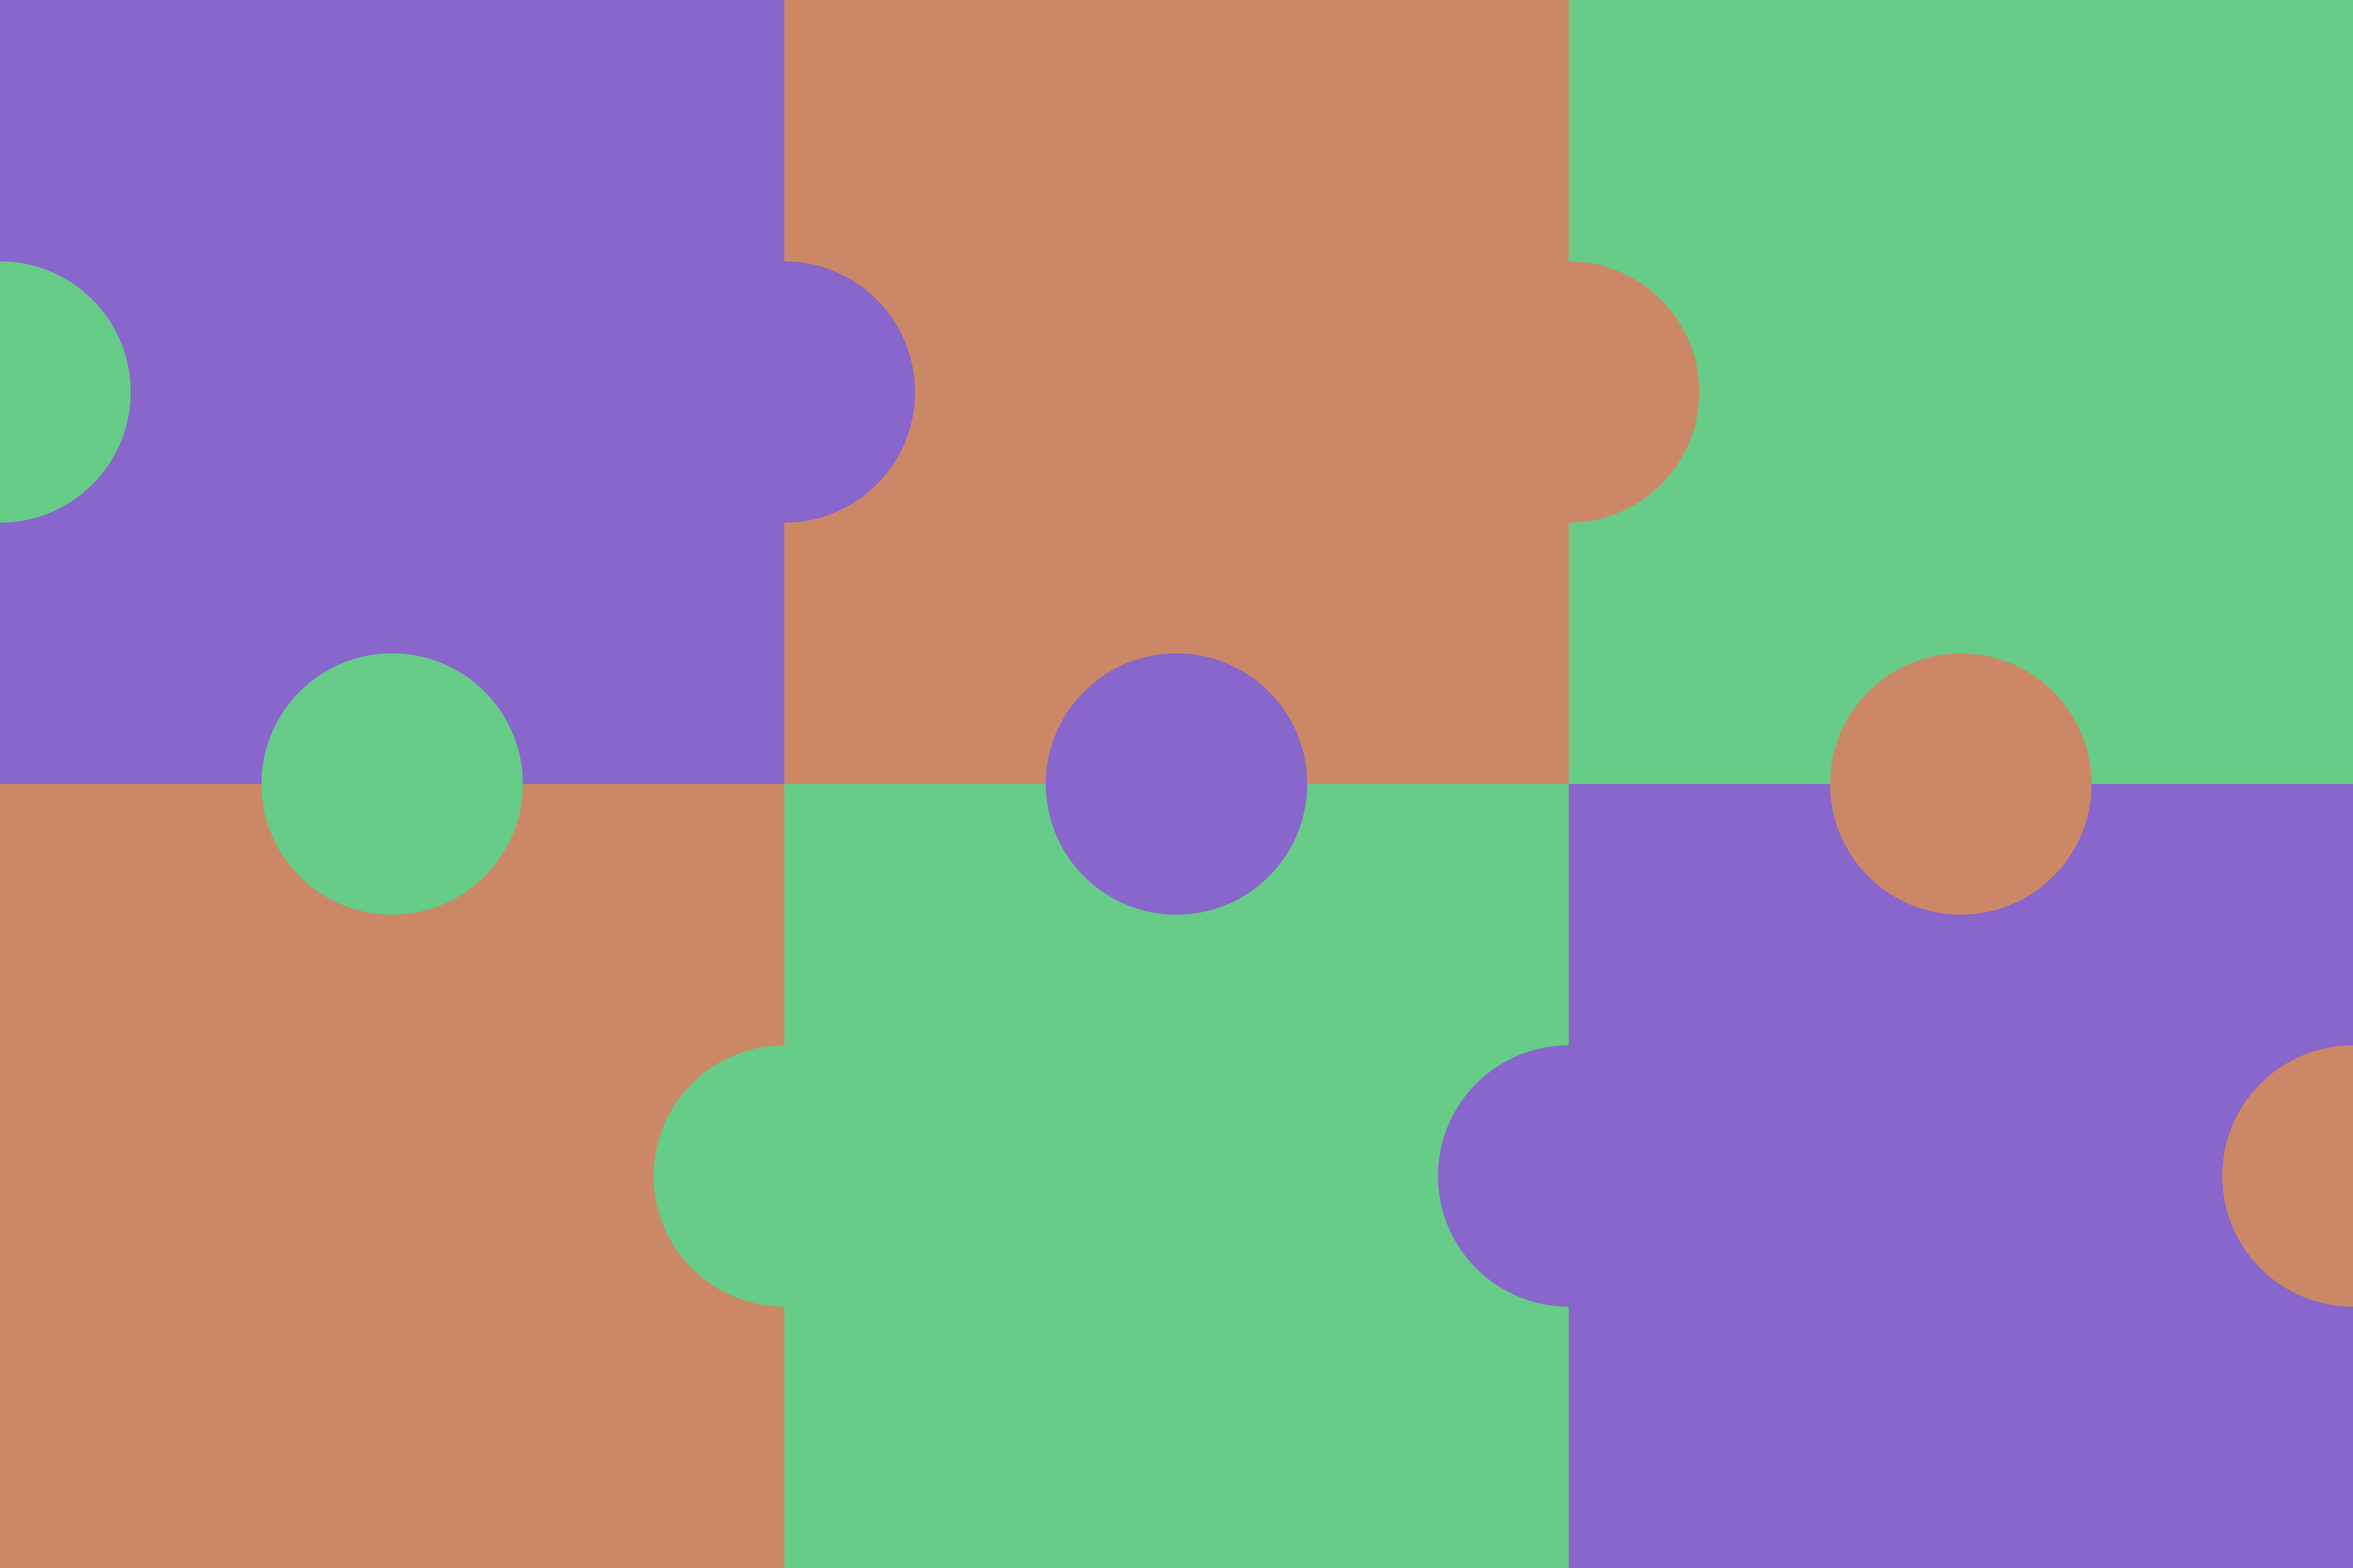
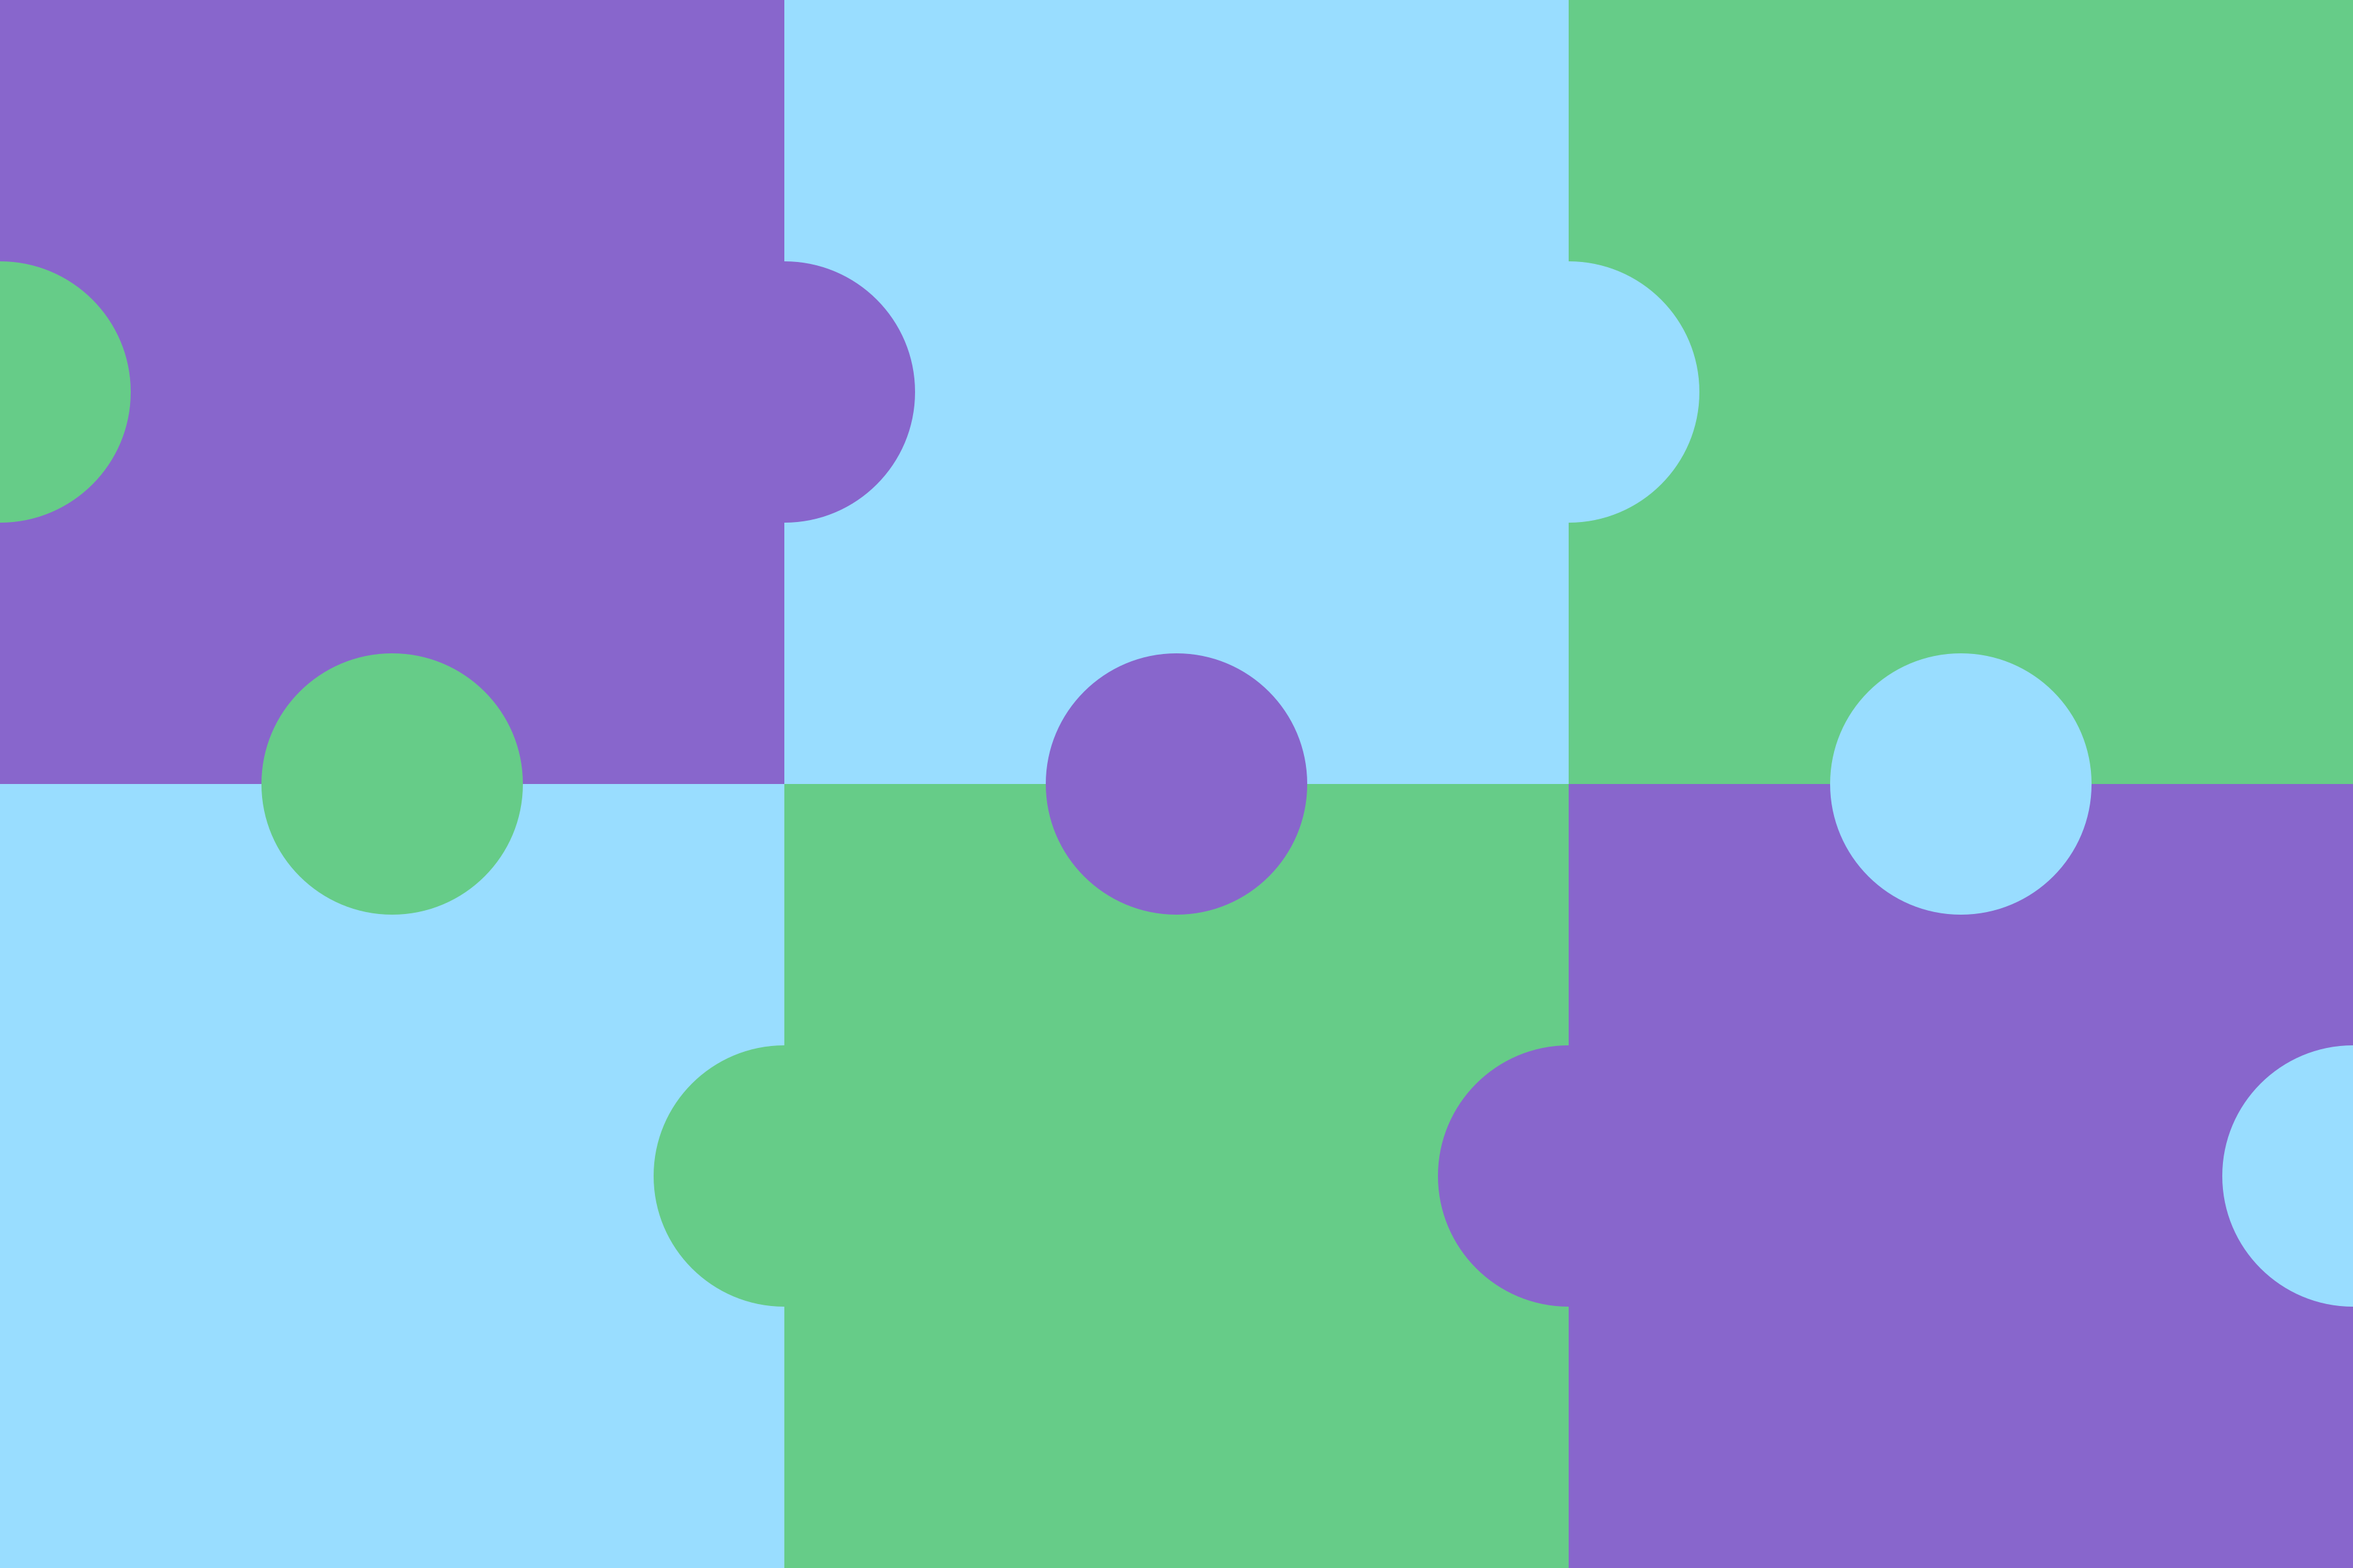
Change color scheme

diff --git a/static/scss/main.scss b/static/scss/main.scss
@@ -1,6 +1,6 @@
 $purple: #8866cc;
+$ice_blue: #99ddff;
 $green: #66cc88;
-$brown: #cc8866;
 
 h1, h2, h3, p, li, .translation {
   font-family: "Kanit", sans-serif;
@@ -21,11 +21,11 @@ h1, h2, h3, p, li, .translation {
 }
 
 a {
-  color: $green;
+  color: $ice_blue;
 
   &:hover {
     text-decoration: none;
-    color: $brown;
+    color: $green;
   }
 }
 
@@ -185,7 +185,7 @@ th .dots {
 
   &.tooltip-shown {
     a {
-      background-color: $green;
+      background-color: $ice_blue;
     }
   }
 }
